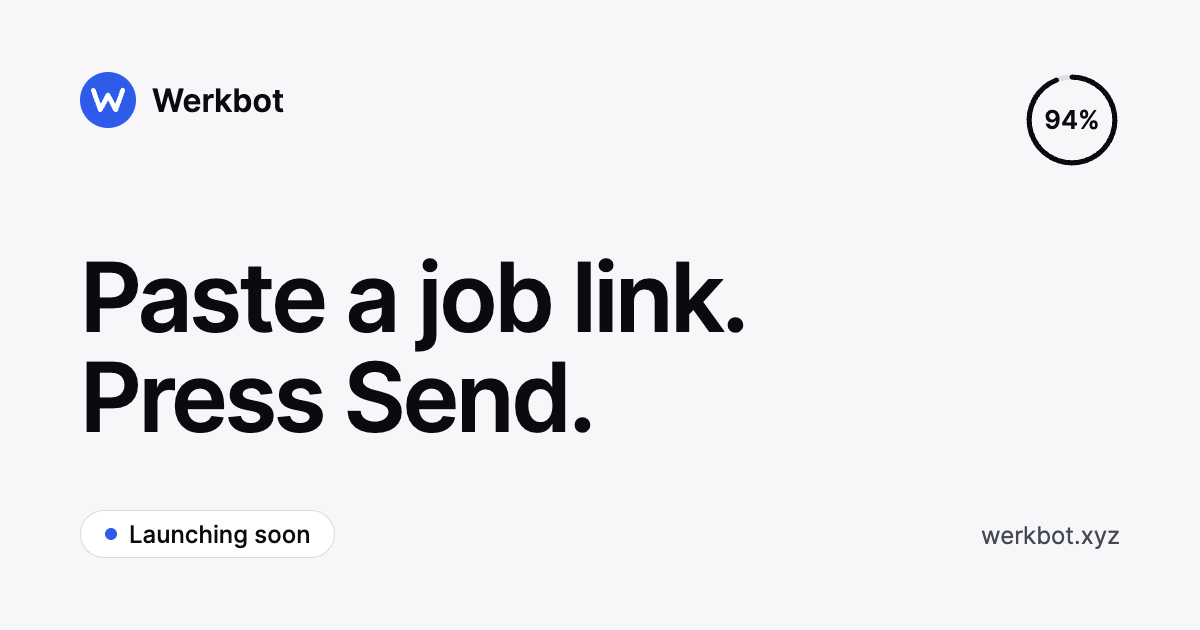
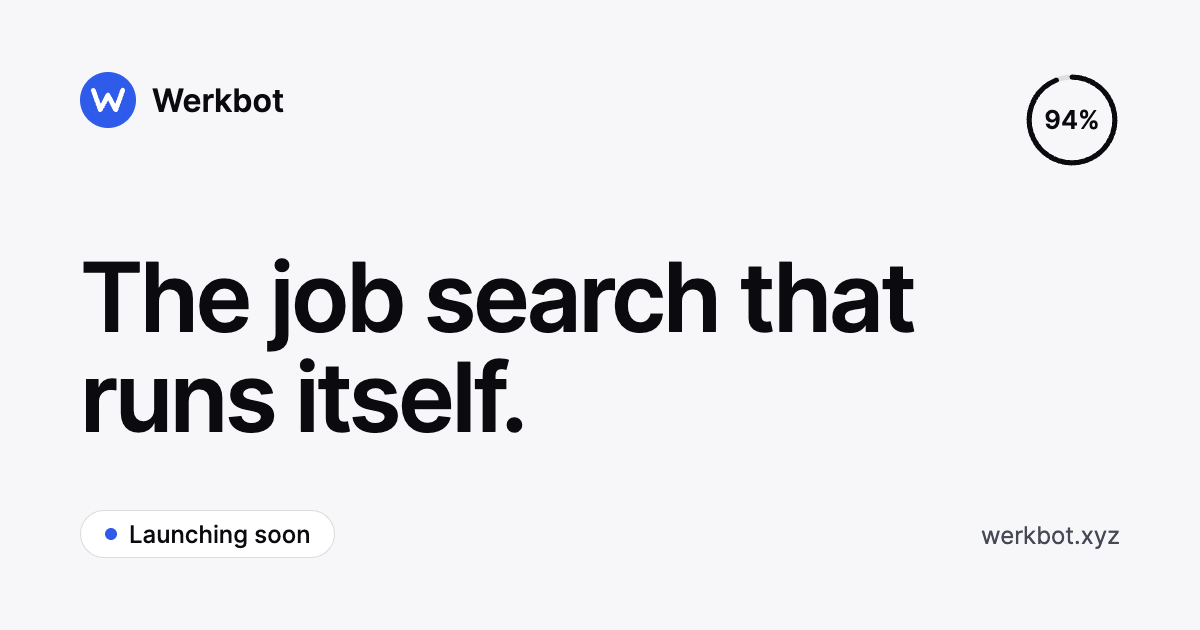
New copy: self-learning job-search agent vision, roadmap, welcome email; restore design

Changed region(s): [[0.0617, 0.3921, 0.7708, 0.573], [0.0617, 0.573, 0.4933, 0.6937]]

diff --git a/technology/index.html b/technology/index.html
@@ -41,7 +41,7 @@
   <div class="thead">
     <div class="wrap">
       <h1>Technology</h1>
-      <p class="lead">Werkbot is a small system of cooperating agents. One reads the job, one prepares the documents, several drive hidden browsers in parallel, and a decision layer settles every answer or hands it to a person. This page describes how it is built and what is still planned.</p>
+      <p class="lead">Werkbot is an autonomous, self-learning agent for the whole job search. A team of cooperating agents finds the roles, reads each job, writes the documents, drives hidden browsers in parallel, settles every answer or hands it to a person, and learns from every correction. This page describes how it is built, what is in testing, and where it is going.</p>
       <div class="legend">
         <span><i class="dot"></i>In testing: built and being tried on real application forms</span>
         <span><i class="dot hollow"></i>Planned: designed, not built yet</span>
@@ -63,7 +63,7 @@
   <div class="wrap">
     <figure class="dia" id="orchestration" aria-labelledby="dia-cap">
       <!-- desktop -->
-      <svg class="h" viewBox="0 0 1136 492" role="img" aria-label="Orchestration diagram. A pasted link or a feed job enters the planner. The planner starts several browser agents in parallel. Each agent reports to a decision layer that answers from profile facts, the answer bank or a draft, or asks the person. The person reviews and presses Send. Answers the person gives are saved and reused.">
+      <svg class="h" viewBox="0 0 1136 492" role="img" aria-label="Orchestration diagram. A job from the feed, or a link you add, enters the planner. The planner starts several browser agents in parallel. Each agent reports to a decision layer that answers from profile facts, the answer bank or a draft, or asks the person. The person reviews and presses Send. Answers the person gives are saved and reused.">
         <defs>
           <marker id="ah" viewBox="0 0 10 10" refX="8" refY="5" markerWidth="8" markerHeight="8" orient="auto"><path d="M1 1.5 L8 5 L1 8.5" fill="none" stroke="#0b0b0f" stroke-width="1.5" stroke-linecap="round" stroke-linejoin="round"/></marker>
         </defs>
@@ -77,7 +77,7 @@
         <g transform="translate(0 28)">
           <!-- input -->
           <rect x="0" y="146" width="140" height="48" rx="12" fill="#f0f0f4"/>
-          <text x="16" y="175" font-size="14" font-weight="500" fill="#0b0b0f">Pasted link</text>
+          <text x="16" y="175" font-size="14" font-weight="500" fill="#0b0b0f">Link you add</text>
           <rect x="0" y="214" width="140" height="48" rx="12" fill="#f0f0f4"/>
           <text x="16" y="243" font-size="14" font-weight="500" fill="#0b0b0f">Jobs feed</text>
           <g fill="none" stroke="#0b0b0f" stroke-width="1.5" marker-end="url(#ah)">
@@ -166,12 +166,12 @@
       </svg>
 
       <!-- phone -->
-      <svg class="v" viewBox="0 0 360 920" role="img" aria-label="Orchestration diagram, vertical. A pasted link or a feed job enters the planner. The planner runs several browser agents in parallel. A decision layer answers each field from a source or asks the person. The person reads, edits and presses Send. Answers you give are saved and reused.">
+      <svg class="v" viewBox="0 0 360 920" role="img" aria-label="Orchestration diagram, vertical. A job from the feed, or a link you add, enters the planner. The planner runs several browser agents in parallel. A decision layer answers each field from a source or asks the person. The person reads, edits and presses Send. Answers you give are saved and reused.">
         <defs>
           <marker id="ah2" viewBox="0 0 10 10" refX="8" refY="5" markerWidth="8" markerHeight="8" orient="auto"><path d="M1 1.5 L8 5 L1 8.5" fill="none" stroke="#0b0b0f" stroke-width="1.5" stroke-linecap="round" stroke-linejoin="round"/></marker>
         </defs>
         <text x="0" y="12" font-size="12" fill="#636774">Input</text>
-        <rect x="0" y="24" width="170" height="44" rx="12" fill="#f0f0f4"/><text x="16" y="52" font-size="14" font-weight="500" fill="#0b0b0f">Pasted link</text>
+        <rect x="0" y="24" width="170" height="44" rx="12" fill="#f0f0f4"/><text x="16" y="52" font-size="14" font-weight="500" fill="#0b0b0f">Link you add</text>
         <rect x="190" y="24" width="170" height="44" rx="12" fill="#f0f0f4"/><text x="206" y="52" font-size="14" font-weight="500" fill="#0b0b0f">Jobs feed</text>
         <g fill="none" stroke="#0b0b0f" stroke-width="1.5" marker-end="url(#ah2)">
           <path d="M85 68 V84 H180 V100"/><path d="M275 68 V84 H180"/>
@@ -238,6 +238,7 @@
         <p><strong>Applying for a job is the same work, repeated.</strong> Every employer hosts its own form, often on a shared applicant tracking system, with its own fields, dropdowns, uploads and login walls. The same facts are typed again and again, and the same few questions come back in different words.</p>
         <p>Automating it has a known failure. When a form asks something the tool cannot source, the tool guesses. A wrong answer about a work permit, a notice period or a salary is worse than an empty field, because the person only finds out after sending.</p>
         <p>Werkbot is built around that failure. The agents do the typing and the reading. Every answer has a source, anything without one goes to the person, and only the person sends.</p>
+        <p><strong>The goal is larger than one form.</strong> Werkbot is meant to run the whole search: it learns who you are once, watches every source, applies in parallel, reaches out to the people behind each role and follows every reply. Each answer you give and each edit you make teaches it, so over time it needs you only for the decisions that are yours.</p>
       </div>
     </div>
   </section>
@@ -248,14 +249,14 @@
       <div class="prose">
         <p>Each application is a single unit of work with a state. The same eight steps run for every one of them.</p>
         <ol class="pipe">
-          <li><div><b>Intake</b><span class="d">Resolves a pasted link or a feed job to the real application page and detects which form system it uses.</span></div><span class="tag"><i class="dot"></i>In testing</span></li>
+          <li><div><b>Intake</b><span class="d">Resolves a job from the feed, or a link you add, to the real application page and detects which form system it uses.</span></div><span class="tag"><i class="dot"></i>In testing</span></li>
           <li><div><b>Prepare the kit</b><span class="d">Tailors a one-page CV from the person's CV bank to the job text, and drafts a cover note when the form asks for one.</span></div><span class="tag"><i class="dot"></i>In testing</span></li>
           <li><div><b>Read the form</b><span class="d">Takes the question list from a form system's public interface where one exists, and from the page structure in the browser otherwise.</span></div><span class="tag"><i class="dot"></i>In testing</span></li>
           <li><div><b>Answer</b><span class="d">The decision layer settles every field with a source, or marks it as a question for the person.</span></div><span class="tag"><i class="dot"></i>In testing</span></li>
           <li><div><b>Fill</b><span class="d">A hidden browser types, picks dropdown values and uploads the CV, then reads every value back and fixes any mismatch.</span></div><span class="tag"><i class="dot"></i>In testing</span></li>
           <li><div><b>Needs you</b><span class="d">The run pauses on the field. The question appears in the side panel with its own reply box. The answer is saved and the fill continues.</span></div><span class="tag"><i class="dot"></i>In testing</span></li>
           <li><div><b>Review and send</b><span class="d">Every answer is shown with its source, the CV and the note can be edited, and only a click sends.</span></div><span class="tag"><i class="dot"></i>In testing</span></li>
-          <li><div><b>Confirm, track, learn</b><span class="d">The confirmation page marks the application as sent. Following the employer's later emails, and learning from what the person changed before sending, are planned.</span></div><span class="tag"><i class="dot hollow"></i>Planned</span></li>
+          <li><div><b>Confirm, track, learn</b><span class="d">The confirmation page marks the application as sent, and what the person changed before sending flows back into the answer bank. Following the employer's later emails to track interviews and rejections is next.</span></div><span class="tag"><i class="dot"></i>In testing</span></li>
         </ol>
       </div>
     </div>
@@ -330,7 +331,7 @@
           <div class="mini"><h3>Needs you</h3><p>The tile changes state and the question appears in the side panel. Captchas and sign-in walls the agent cannot pass take the same path.</p><span class="tag"><i class="dot"></i>In testing</span></div>
           <div class="mini"><h3>Take control</h3><p>The person drives the hidden browser by hand, then gives it back. The agent carries on from the page the person left it on.</p><span class="tag"><i class="dot"></i>In testing</span></div>
           <div class="mini"><h3>Remembering answers</h3><p>An answer typed into the side panel is stored with its source and can be edited later, so the same question is not asked twice.</p><span class="tag"><i class="dot"></i>In testing</span></div>
-          <div class="mini"><h3>Learning from corrections</h3><p>What the person changes between the draft and Send flows back into the answer bank, so each form asks less than the last.</p><span class="tag"><i class="dot hollow"></i>Planned</span></div>
+          <div class="mini"><h3>Learning from corrections</h3><p>What the person changes between the draft and Send flows back into the answer bank, so each form asks less than the last.</p><span class="tag"><i class="dot"></i>In testing</span></div>
         </div>
       </div>
     </div>
@@ -358,8 +359,10 @@
       <div class="prose">
         <p>Everything below is planned. None of it is shipped.</p>
         <ul class="road">
-          <li><div><b>More form systems</b><span class="d">Adapters for Lever, Ashby, Personio and SmartRecruiters.</span></div><span class="tag"><i class="dot hollow"></i>Planned</span></li>
-          <li><div><b>Multi-page forms and richer inputs</b><span class="d">Radio buttons, dates, multi-select and yes or no groups, and forms that span several pages.</span></div><span class="tag"><i class="dot hollow"></i>Planned</span></li>
+          <li><div><b>More form systems</b><span class="d">Adapters for Lever, Ashby, Personio, SmartRecruiters, Workday and SuccessFactors.</span></div><span class="tag"><i class="dot hollow"></i>Planned</span></li>
+          <li><div><b>Outreach to the people behind each role</b><span class="d">Finds people at the company, drafts a note for you to approve, and finds a recruiter email where one exists. You approve every message.</span></div><span class="tag"><i class="dot hollow"></i>Planned</span></li>
+          <li><div><b>Autopilot for the whole search</b><span class="d">Runs on a schedule inside the limits you set: daily caps, a match bar, a per-company limit and a pause when a company is interviewing you. You approve in batches.</span></div><span class="tag"><i class="dot hollow"></i>Planned</span></li>
+          <li><div><b>Shared form memory</b><span class="d">A form layout or label learned once is reused for the next person on the same system, so every new user starts with a smarter agent. Personal answers stay personal.</span></div><span class="tag"><i class="dot hollow"></i>Planned</span></li>
           <li><div><b>Explore once, replay</b><span class="d">A general browser agent whose successful runs are compiled into scripts that replay without a model.</span></div><span class="tag"><i class="dot hollow"></i>Planned</span></li>
           <li><div><b>Role-aware CV writing</b><span class="d">Reads the job first, matches the tone of the employer and shows proof for each requirement.</span></div><span class="tag"><i class="dot hollow"></i>Planned</span></li>
           <li><div><b>Cloud browsers in an EU region</b><span class="d">Applications keep running while the person's laptop is closed, with data handling that fits European users.</span></div><span class="tag"><i class="dot hollow"></i>Planned</span></li>

diff --git a/index.html b/index.html
@@ -3,15 +3,15 @@
 <head>
 <meta charset="utf-8">
 <meta name="viewport" content="width=device-width, initial-scale=1">
-<title>Werkbot | Paste a job link, press Send</title>
-<meta name="description" content="Werkbot fills in job applications in a hidden browser, asks before it guesses, and stops at Send. Launching soon. Join the waitlist.">
+<title>Werkbot | The job search that runs itself</title>
+<meta name="description" content="Werkbot is a self-learning agent for your whole job search. It finds the roles, writes the CV, fills the forms, reaches out and tracks the replies. You press Send. Launching soon.">
 <link rel="canonical" href="https://werkbot.xyz/">
 <link rel="icon" href="/assets/favicon.svg" type="image/svg+xml">
 <meta name="theme-color" content="#f7f7f9">
 <meta property="og:type" content="website">
 <meta property="og:site_name" content="Werkbot">
-<meta property="og:title" content="Werkbot | Paste a job link, press Send">
-<meta property="og:description" content="Werkbot fills in job applications in a hidden browser, asks before it guesses, and stops at Send. Launching soon.">
+<meta property="og:title" content="Werkbot | The job search that runs itself">
+<meta property="og:description" content="A self-learning agent for your whole job search. It does the work. You press Send. Launching soon.">
 <meta property="og:url" content="https://werkbot.xyz/">
 <meta property="og:image" content="https://werkbot.xyz/assets/og.png">
 <meta name="twitter:card" content="summary_large_image">
@@ -42,8 +42,8 @@
     <div class="wrap">
       <div>
         <span class="status"><i class="dot"></i>Launching soon</span>
-        <h1>Paste a job link. Press Send.</h1>
-        <p class="sub">Werkbot fills in the application in a hidden browser, asks you before it guesses, and stops at Send. You read it, you press the button.</p>
+        <h1>The job search that runs itself.</h1>
+        <p class="sub">Werkbot is a self-learning agent for your whole job hunt. It finds the roles, writes the CV, fills the forms, reaches out to people and tracks every reply. Each answer you give teaches it, so it asks less every time. You keep one click: Send.</p>
         <div id="waitlist">
           <form class="waitlist" action="mailto:abhi@werkbot.xyz?subject=Werkbot%20waitlist" method="post" enctype="text/plain" novalidate>
             <label for="wl-email" class="sr">Email address</label>
@@ -102,11 +102,12 @@
   <section style="padding-top:32px">
     <div class="wrap">
       <p class="eyebrow">How it goes</p>
-      <h2 style="max-width:24ch">The form is filled. The decision stays yours.</h2>
+      <h2 style="max-width:26ch">Tell it who you are once. It does the rest.</h2>
       <div class="steps">
-        <div class="step y"><span class="n">01</span><h3>Paste a link</h3><p>Any job link, or pick one from your feed. Werkbot finds the real application page behind it.</p></div>
-        <div class="step b"><span class="n">02</span><h3>It fills the form</h3><p>A hidden browser types, picks and uploads. When a field has no source, it stops and asks you.</p></div>
-        <div class="step g"><span class="n">03</span><h3>You press Send</h3><p>Read every answer, edit anything, then send. Nothing goes out before that click.</p></div>
+        <div class="step y"><span class="n">01</span><h3>It learns you</h3><p>Drop in your CV and say what you want. Werkbot builds your profile, searches every source, and ranks each role with a reason it fits.</p></div>
+        <div class="step b"><span class="n">02</span><h3>It applies in parallel</h3><p>A grid of hidden browsers fills real application forms side by side with a tailored one-page CV. You watch, or step into any one.</p></div>
+        <div class="step g"><span class="n">03</span><h3>It asks, then remembers</h3><p>When it does not know, it asks instead of guessing. Your answer is saved, so the next form asks less. The more you use it, the less it needs you.</p></div>
+        <div class="step p"><span class="n">04</span><h3>It reaches out and follows up</h3><p>Next: it finds people at the company, drafts the note for you to approve, and moves every application through sent, interview and offer.</p></div>
       </div>
     </div>
   </section>
@@ -114,9 +115,9 @@
   <section style="padding-top:0">
     <div class="wrap">
       <div class="rule">
-        <h2>It never sends without you. It never guesses.</h2>
+        <h2>Automation that never sends without you and never guesses.</h2>
         <div>
-          <p>Work permits, salary, start dates and legal consents are asked, never assumed.</p>
+          <p>Work permits, salary, start dates and legal consents are asked, never assumed. Every sentence about you is checked against your own CV before it goes anywhere.</p>
           <p style="margin-top:16px"><a class="link" href="/technology">See the technology</a></p>
         </div>
       </div>

diff --git a/api/waitlist.js b/api/waitlist.js
@@ -11,7 +11,7 @@ const WELCOME_TEXT = `Hi,
 
 You are on the Werkbot waitlist. Thank you.
 
-Werkbot applies to jobs for you in a background browser. It fills the form, asks you when it does not know an answer instead of guessing, and waits for your Send before anything leaves.
+Werkbot is a self-learning agent for your whole job search. It finds the roles, writes the CV, fills the forms in a background browser, and learns from every answer you give, so it asks less each time. It never guesses and never sends without your click.
 
 We are building it now. When early access opens, you will get one email from this address.
 
@@ -26,7 +26,7 @@ const WELCOME_HTML = `<!doctype html><html><body style="margin:0;padding:24px;ba
 <div style="max-width:520px;margin:0 auto;background:#ffffff;border:1px solid #ececf0;border-radius:16px;padding:32px;line-height:1.55;font-size:16px;">
 <p style="margin:0 0 16px;">Hi,</p>
 <p style="margin:0 0 16px;">You are on the Werkbot waitlist. Thank you.</p>
-<p style="margin:0 0 16px;">Werkbot applies to jobs for you in a background browser. It fills the form, asks you when it does not know an answer instead of guessing, and waits for your Send before anything leaves.</p>
+<p style="margin:0 0 16px;">Werkbot is a self-learning agent for your whole job search. It finds the roles, writes the CV, fills the forms in a background browser, and learns from every answer you give, so it asks less each time. It never guesses and never sends without your click.</p>
 <p style="margin:0 0 16px;">We are building it now. When early access opens, you will get one email from this address.</p>
 <p style="margin:0 0 24px;color:#5f6470;">If you want to talk, reply to this message. It reaches me directly. If you want off the list, reply with &quot;remove&quot;.</p>
 <p style="margin:0;">Abhi<br><a href="https://werkbot.xyz" style="color:#2F5BEA;text-decoration:none;">werkbot.xyz</a></p>

diff --git a/styles.css b/styles.css
@@ -127,12 +127,12 @@ h1,h2{text-wrap:balance}
 h2{font-size:40px;line-height:1.1;font-weight:600;letter-spacing:-.03em}
 h3{font-size:20px;line-height:28px;font-weight:600;letter-spacing:-.01em}
 .lead{font-size:20px;line-height:30px;color:var(--ink-2)}
-.steps{display:grid;grid-template-columns:repeat(3,minmax(0,1fr));gap:16px;margin-top:48px}
+.steps{display:grid;grid-template-columns:repeat(2,minmax(0,1fr));gap:16px;margin-top:48px}
 .step{border-radius:16px;padding:24px;min-height:208px;display:flex;flex-direction:column}
 .step .n{font-family:var(--mono);font-size:13px;line-height:16px;color:var(--ink-2);margin-bottom:0}
 .step h3{font-size:24px;line-height:28px;letter-spacing:-.02em;margin:48px 0 8px}
 .step p{font-size:15px;line-height:22px;color:var(--ink-2)}
-.step.y{background:var(--yellow)}.step.b{background:var(--blue)}.step.g{background:var(--green)}
+.step.y{background:var(--yellow)}.step.b{background:var(--blue)}.step.g{background:var(--green)}.step.p{background:var(--pink)}
 
 .rule{background:var(--ink);color:#fff;border-radius:24px;padding:64px;display:grid;grid-template-columns:minmax(0,7fr) minmax(0,3fr);gap:48px;align-items:end}
 .rule h2{font-size:44px;max-width:20ch}

diff --git a/assets/og.html b/assets/og.html
@@ -14,7 +14,7 @@ h1{font-size:96px;line-height:1.04;font-weight:600;letter-spacing:-.035em;margin
 </style></head><body>
 <div class="logo"><svg viewBox="0 0 40 40"><circle cx="20" cy="20" r="20" fill="#2F5BEA"/><path d="M9.5 13 L14.5 27 L20 16.5 L25.5 27 L30.5 13" fill="none" stroke="#fff" stroke-width="3.4" stroke-linecap="round" stroke-linejoin="round"/></svg>Werkbot</div>
 <svg class="ring" viewBox="0 0 56 56"><circle cx="28" cy="28" r="25" fill="none" stroke="rgba(11,11,15,.1)" stroke-width="3"/><circle cx="28" cy="28" r="25" fill="none" stroke="#0b0b0f" stroke-width="3" stroke-linecap="round" stroke-dasharray="147.6 157.1" transform="rotate(-90 28 28)"/><text x="28" y="33" text-anchor="middle" font-size="15" font-weight="600" font-family="Inter" fill="#0b0b0f">94%</text></svg>
-<h1>Paste a job link. Press Send.</h1>
+<h1>The job search that runs itself.</h1>
 <div class="pill"><i></i>Launching soon</div>
 <div class="url">werkbot.xyz</div>
 </body></html>
